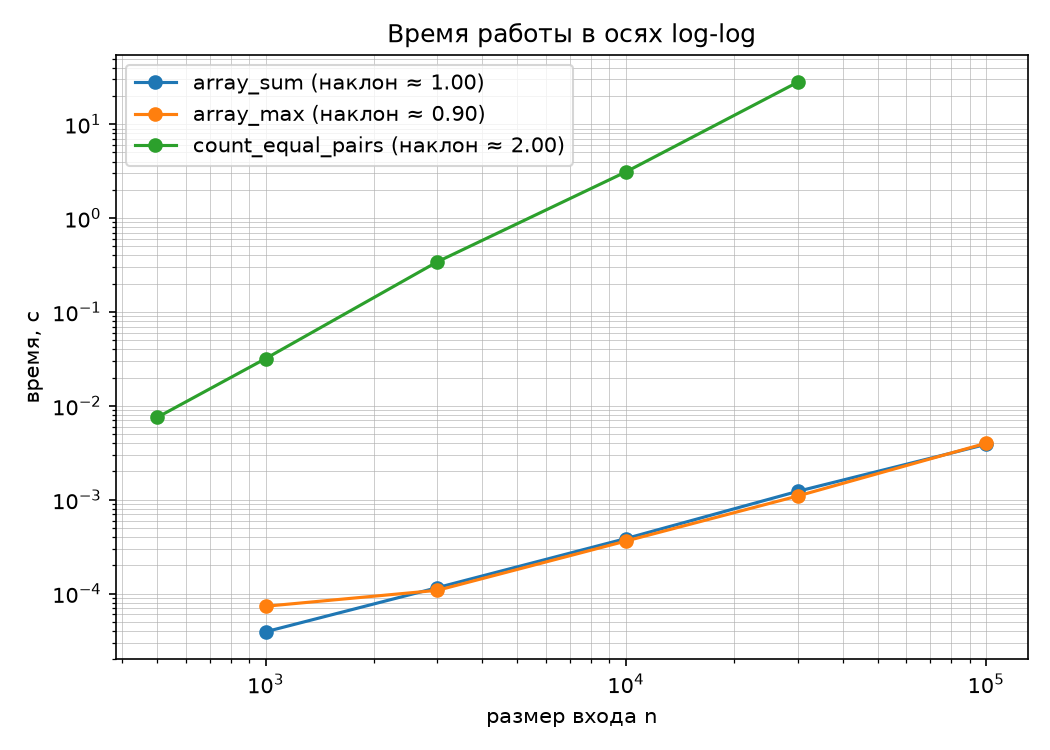
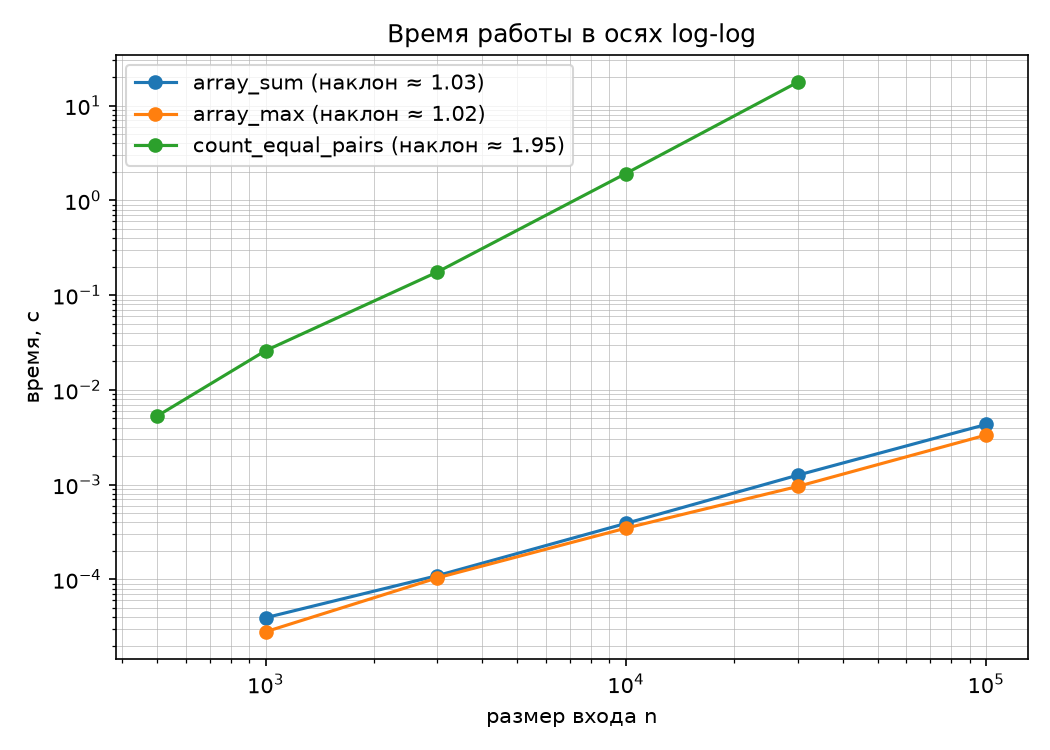
Добавила графики сложностей алгоритмов

diff --git a/ЛР1/lab01-time-complexity-analysis.py b/ЛР1/lab01-time-complexity-analysis.py
@@ -334,7 +334,59 @@ def plot_results(results: dict[str, list[tuple[int, float]]], out_dir: Path) -> 
     # по log₂ n, а не log-log (какой вид имеет логарифмическая зависимость
     # в осях log-log и почему по ней трудно судить о порядке роста).
 
+def plot_complexity_growth(out_dir: Path) -> None:
+    """График роста основных классов временной сложности."""
+    try:
+        import matplotlib
+        matplotlib.use("Agg")
+        import matplotlib.pyplot as plt
+    except ImportError:
+        print("\nmatplotlib не установлен — график сложности пропущен.")
+        return
 
+    out_dir.mkdir(parents=True, exist_ok=True)
+
+    # Размер входа от 1 до 100
+    n_values = list(range(1, 101))
+
+    complexities = {
+        "O(1)": [1] * len(n_values),
+        "O(log n)": [math.log2(n) for n in n_values],
+        "O(n)": [n for n in n_values],
+        "O(n log n)": [n * math.log2(n) if n > 1 else 0 for n in n_values],
+        "O(n²)": [n ** 2 for n in n_values],
+        "O(2^n)": [2 ** n for n in n_values],
+        "O(n!)": [math.factorial(n) for n in n_values],
+    }
+
+    fig, ax = plt.subplots(figsize=(10, 6))
+
+    for name, values in complexities.items():
+        ax.plot(
+            n_values,
+            values,
+            linewidth=2,
+            label=name
+        )
+
+    ax.set_xlim(1, 100)
+    ax.set_yscale("log")
+    ax.set_ylim(0.5, 10**10)
+
+    ax.set_xlabel("Количество элементов n")
+    ax.set_ylabel("Количество операций (логарифмическая шкала)")
+    ax.set_title("График роста O-большого")
+
+    ax.grid(True, which="both", linewidth=0.5)
+    ax.legend()
+
+    fig.tight_layout()
+
+    path = out_dir / "lab01_complexity_growth.png"
+    fig.savefig(path, dpi=150)
+    plt.close(fig)
+
+    print(f"  {path}")
 # ---------------------------------------------------------------------------
 
 
@@ -384,6 +436,7 @@ def main() -> None:
     )
 
     plot_results(results, args.out)
+    plot_complexity_growth(args.out)
 
 
 if __name__ == "__main__":
